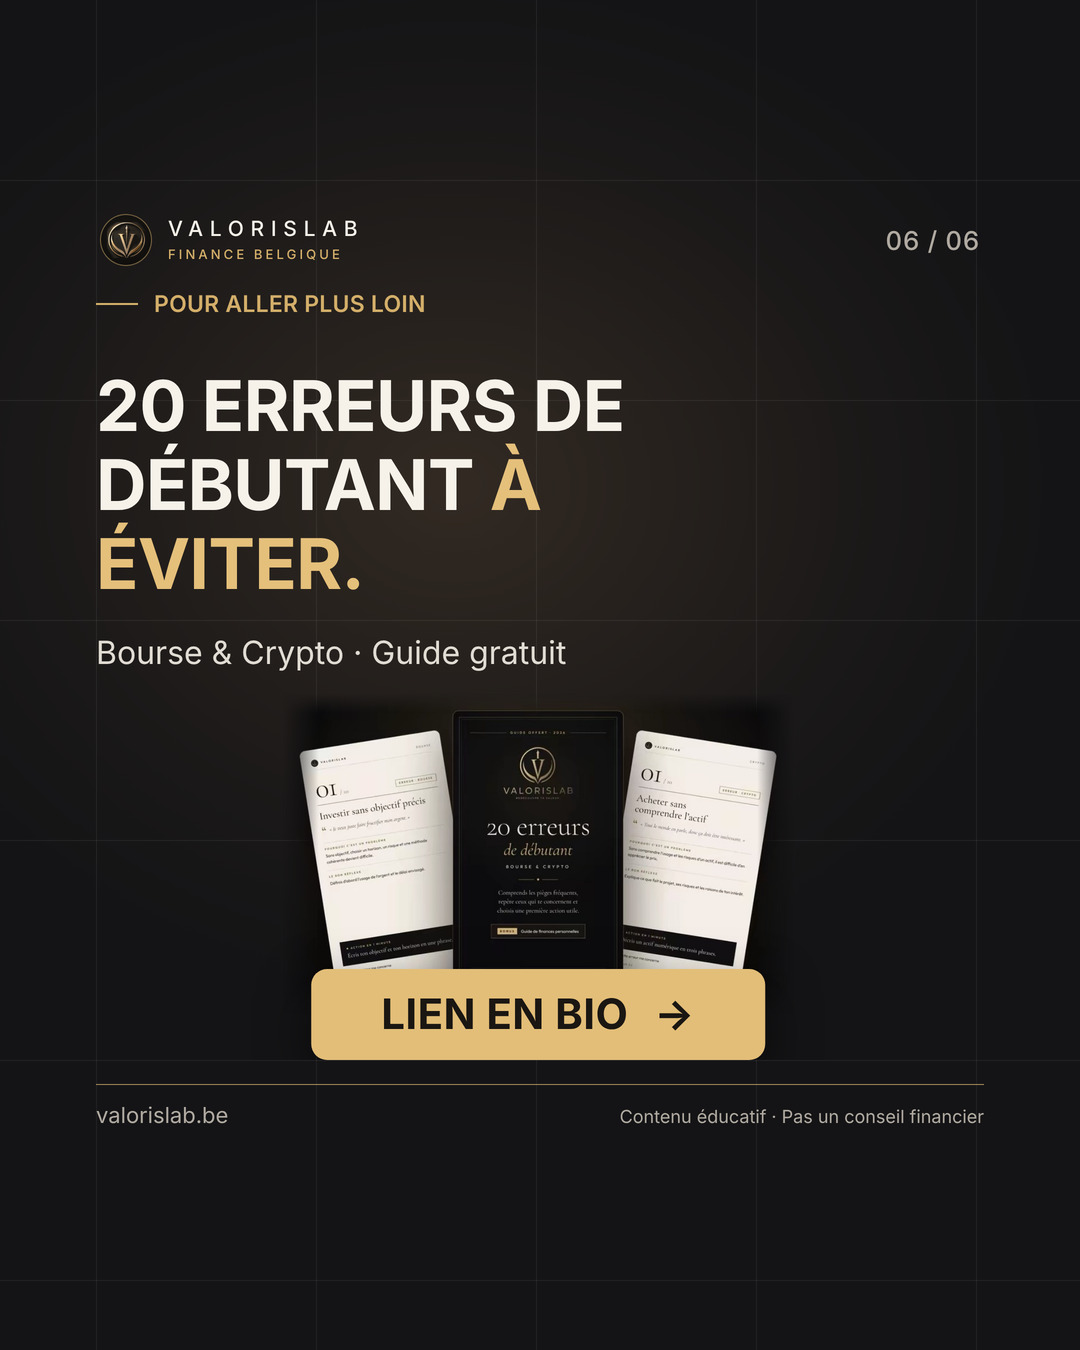
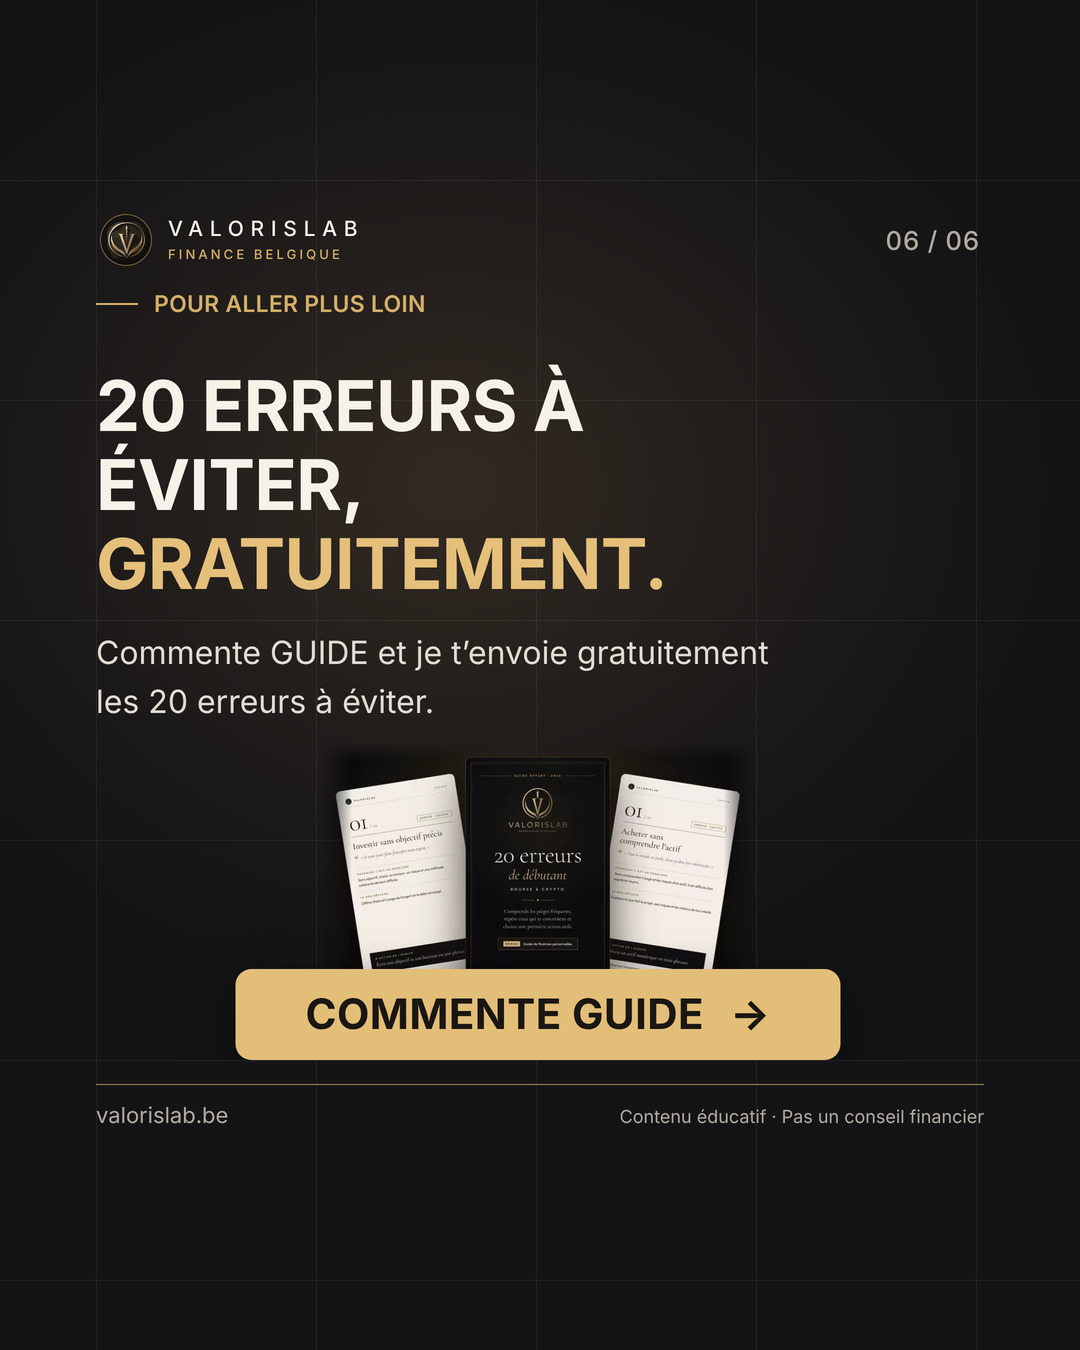
Fin de carrousel et de légende : « Commente GUIDE et je t’envoie gratuitement les 20 erreurs à éviter. » (règle de Laurent), contenus W47 re-rendus
Claude-Session: https://claude.ai/code/session_01TLJLY24Epcb72f4FcDPMnA

Changed region(s): [[0.0917, 0.4667, 0.7333, 0.8089], [0.0917, 0.28, 0.6111, 0.4356], [0.6722, 0.7156, 0.7944, 0.8089]]

diff --git a/docs/RUNBOOK.md b/docs/RUNBOOK.md
@@ -53,7 +53,7 @@ Ne pas modifier `kit/VERSION`. Toute modification de ce document est aussi à re
 
 ### 4. Création des contenus
 Fichier `content/<AAAA>-W<ss>/<AAAA-MM-JJ>-<slug>.json` (date = lundi de la semaine cible) ; schéma de `content/2026-W46/2026-11-09-garantie-depots-100000.json` : `id, date, pillar, theme, topic, keywords, kicker, slides[], alt, captions{instagram, facebook, tiktok_title, tiktok}, sources, virality`.
-- **Structure v5 (5 slides par défaut)** : `cover{title, subtitle, highlight?, scene}` (le `kicker` du contenu = « Thème · date », ex. « Bourse · 02 novembre 2026 ») → `compare` « Le point essentiel » (`kicker`, `title`, `body`, `left{label, note}`, `right{label, note}`) → `compare` exemple chiffré (`kicker`, `title`, `left{label, value}`, `right{label, value}`, `caption`, `note` = « Chiffres illustratifs… » ou source) → `list` méthode (`kicker`, `title`, `items[{title, sub}]`, 4 étapes) → `cta{title, subtitle, button: "Lien en bio"}`. Chaque slide porte son propre `kicker` adapté au sujet. Types aussi disponibles : `point` (+ `stat` | `cards` | `card_note` | `box`), `stat`. `source` obligatoire sur chaque chiffre réel ; `*mot*` = or (fin du titre), `**mot**` = gras. Limites : `docs/STYLE-CARROUSEL.md`.
+- **Structure v5 (5 slides par défaut)** : `cover{title, subtitle, highlight?, scene}` (le `kicker` du contenu = « Thème · date », ex. « Bourse · 02 novembre 2026 ») → `compare` « Le point essentiel » (`kicker`, `title`, `body`, `left{label, note}`, `right{label, note}`) → `compare` exemple chiffré (`kicker`, `title`, `left{label, value}`, `right{label, value}`, `caption`, `note` = « Chiffres illustratifs… » ou source) → `list` méthode (`kicker`, `title`, `items[{title, sub}]`, 4 étapes) → `cta{title: "20 erreurs à éviter, *gratuitement.*", subtitle: "Commente GUIDE et je t’envoie gratuitement les 20 erreurs à éviter.", button: "Commente GUIDE"}` (règle de Laurent, 13/11/2026 : la dernière slide de chaque carrousel et la fin de chaque légende, post ou vidéo, portent exactement « Commente GUIDE et je t’envoie gratuitement les 20 erreurs à éviter. »). Chaque slide porte son propre `kicker` adapté au sujet. Types aussi disponibles : `point` (+ `stat` | `cards` | `card_note` | `box`), `stat`. `source` obligatoire sur chaque chiffre réel ; `*mot*` = or (fin du titre), `**mot**` = gras. Limites : `docs/STYLE-CARROUSEL.md`.
 - Score de viralité (grille de `STRATEGIE.md`) dans `virality` : sous 70 → retravailler l'accroche ; sous 55 → changer de sujet ; aucun contenu sous 70 n'est programmé.
 
 ### 5. Décor de couverture IA (par défaut, un par contenu)

diff --git a/docs/STYLE-CARROUSEL.md b/docs/STYLE-CARROUSEL.md
@@ -33,7 +33,7 @@ Remplace la charte v4 (archivée sur la branche `sauvegarde-charte-v4`). **Rendu
 2. **Le point essentiel (`compare` sans valeur)** : surtitre « Le point essentiel », titre (fin en or), une phrase d'explication (`body`), puis une carte à 2 colonnes : libellé or + texte (`left{label, note}`, `right{label, note}`).
 3. **Exemple chiffré (`compare` avec valeurs)** : surtitre « Exemple fictif · pour comprendre » (ou « Exemple réel » avec source), titre, carte à 2 colonnes : libellé gris + grand chiffre (gauche or, droite blanc) + phrase de conclusion sous un filet (`caption`), puis une note grise (`note`, ex. « Chiffres illustratifs » ou la source).
 4. **Méthode (`list`)** : surtitre « Ta méthode de débutant », titre, 4 étapes en cartes numérotées 01 à 04 ; chaque étape = 1re ligne blanche (`title`) + 2e ligne grise (`sub`).
-5. **CTA (`cta`)** : surtitre « Pour aller plus loin », titre « 20 erreurs de débutant à éviter. », sous-titre « Bourse & Crypto · Guide gratuit », maquette du guide, bouton or « LIEN EN BIO → ».
+5. **CTA (`cta`)** (règle de Laurent, 13/11/2026) : surtitre « Pour aller plus loin », titre « 20 erreurs à éviter, gratuitement. », sous-titre « Commente GUIDE et je t’envoie gratuitement les 20 erreurs à éviter. » (texte exact), maquette du guide, bouton or « COMMENTE GUIDE → ».
 
 Pour un sujet qui le demande, ajouter 1 à 3 slides du même type (`point`, `stat`, `compare`, `list`), sans dépasser 8.
 

diff --git a/docs/STRATEGIE.md b/docs/STRATEGIE.md
@@ -38,9 +38,10 @@ Alternance des thèmes : au moins 1 contenu Crypto toutes les 2 semaines, et au 
 3. « À retenir : » + 3 puces ( • ).
 4. Une question qui appelle un commentaire.
 5. Un appel à enregistrer ou à partager.
-6. CTA guide : Instagram et TikTok → « mon guide gratuit, lien en bio » ; Facebook → lien direct https://www.valorislab.be
+6. (supprimé le 13/11/2026 : remplacé par la phrase finale, point 9).
 7. « Contenu éducatif, pas un conseil financier. » (+ hypothèses chiffrées si un calcul est présenté, + « Performances passées… » si des performances historiques sont citées).
 8. 5 hashtags, dont toujours #belgique.
+9. **Dernière ligne, sur tous les réseaux, posts et vidéos (règle de Laurent, 13/11/2026)** : « Commente GUIDE et je t’envoie gratuitement les 20 erreurs à éviter. » (texte exact). Elle remplace l'ancien appel « guide gratuit, lien en bio / valorislab.be ». Les scripts vidéo se terminent aussi par cette phrase.
 
 Limites : Instagram ≤ 2 200 caractères ; titre TikTok ≤ 90 caractères, description TikTok ≤ 500 caractères ; Facebook sans limite pratique (rester ≤ 1 500).
 Texte alternatif (alt) obligatoire pour chaque visuel.
